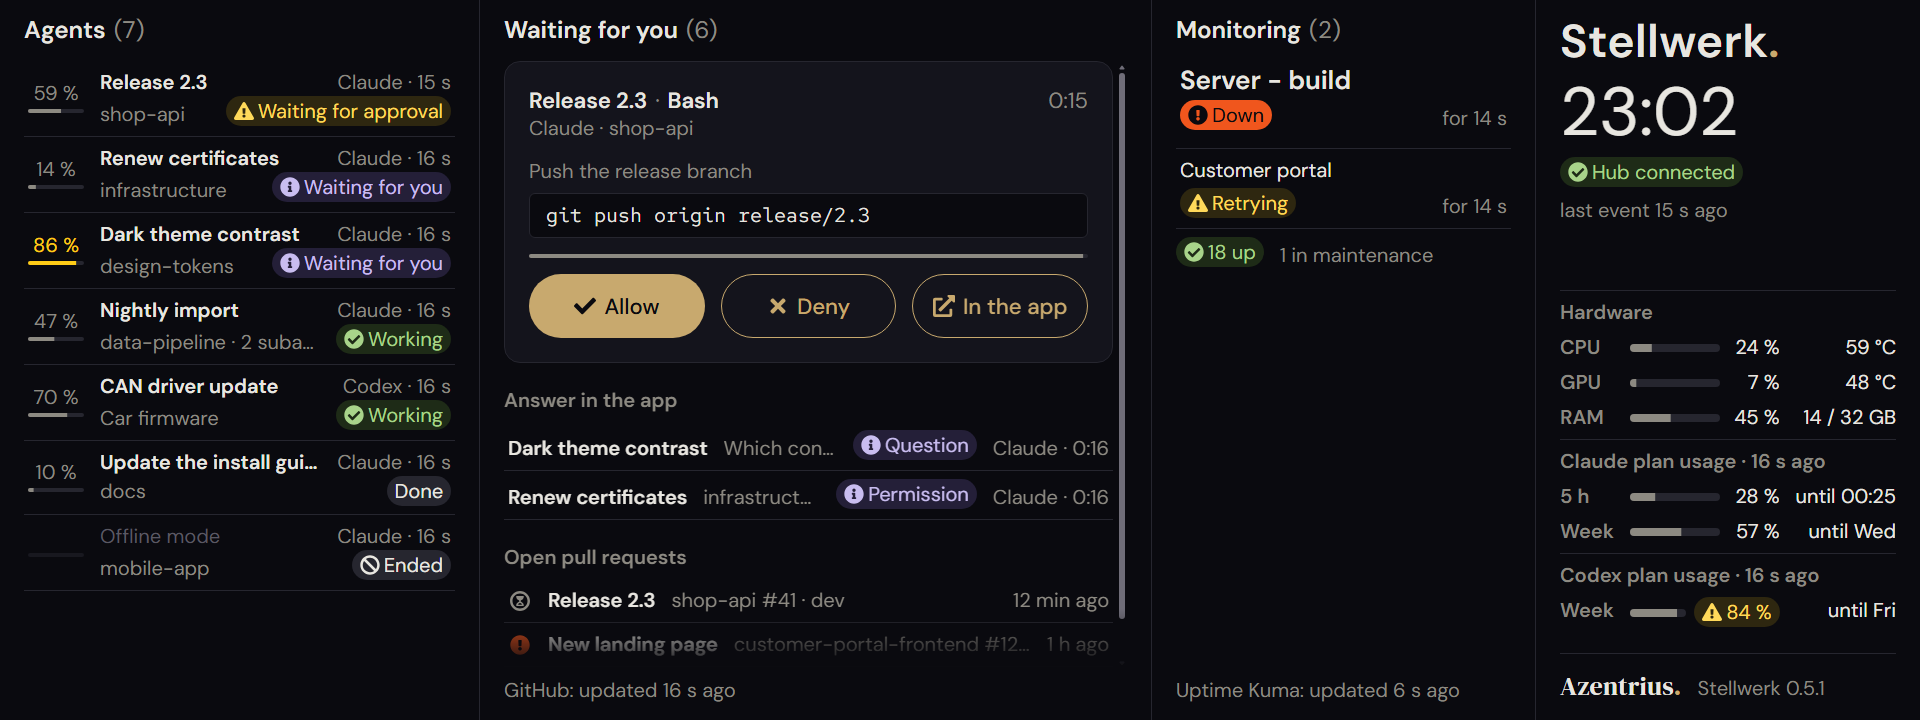
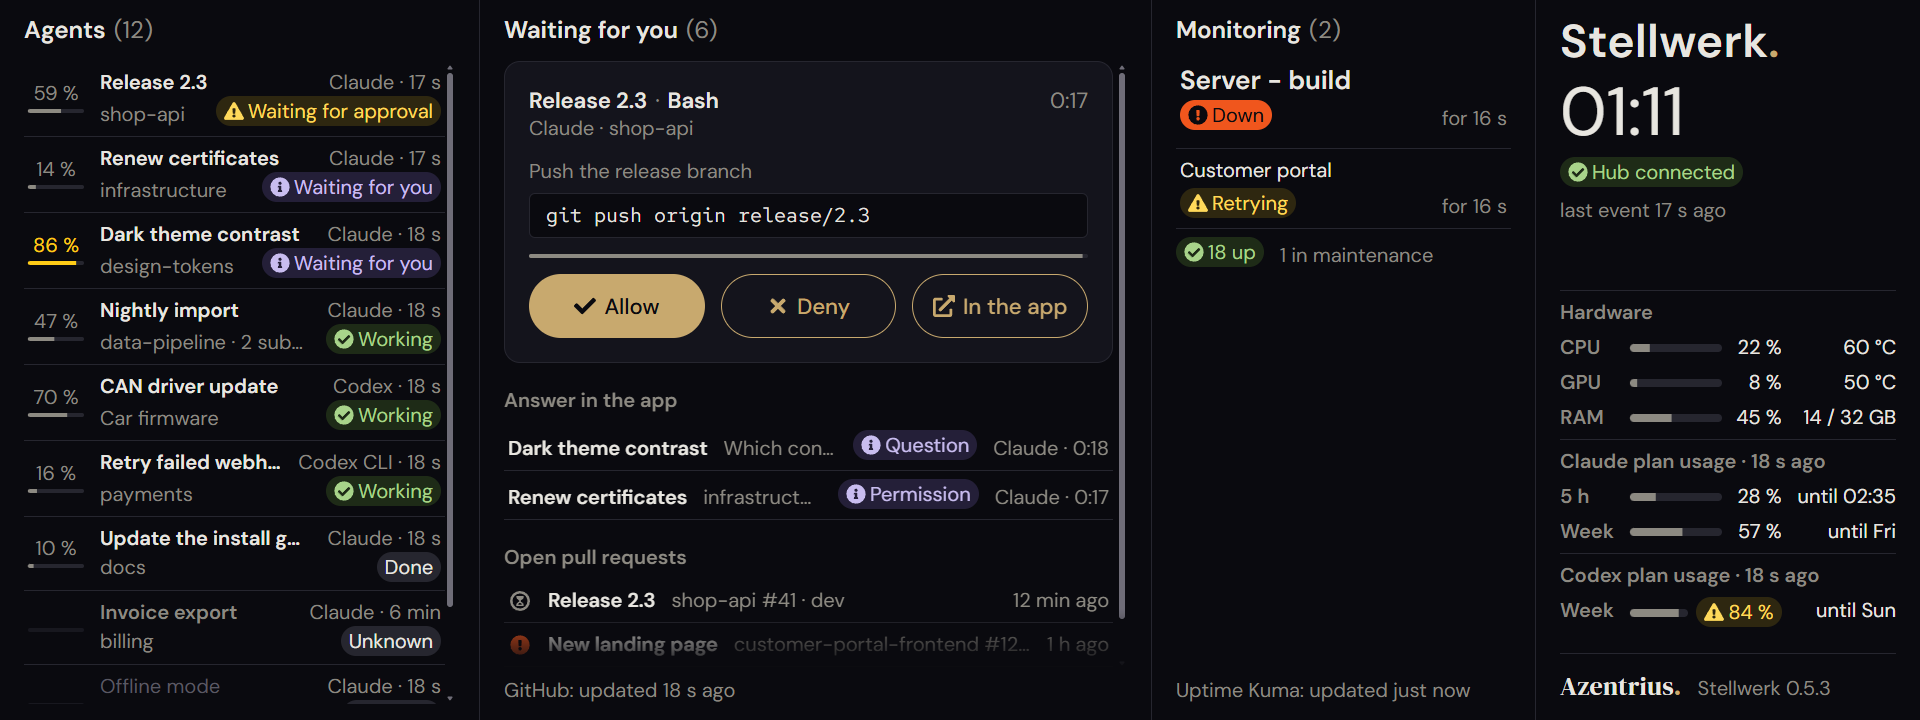
Add stellwerk raw-log delete and show the new things in the demo (#45)
Two small things before the release of 0.5.3.

## `stellwerk raw-log delete`

- **The command:** after a probe with the raw hook log on, the display
asks you to delete `debug-raw.jsonl`, which holds prompts and code, and
you had to find the file yourself. `stellwerk raw-log delete` now
deletes it. When `debugRawLog` is still true in `config.json`, it also
says that the hub would write the log again.
- **Asked for, never on its own:** it deletes only when you run it.
- **Texts:** the display's hint while the raw log is on names the
command, in both languages. The usage and the README's configuration
table name it too.
- **Code:** `deleteRawLog` in `src/config.ts`, tested in
`test/config.test.ts`.

## The demo and the README screenshot

- **The demo:** `npm run demo` now shows what came with 0.5.3:
- it restores sessions of a "last run": one unknown since a few minutes,
and three at rest behind their line;
- it runs a session of Codex' command line, whose transcript names it so
("Codex CLI").
- **The screenshot:** `docs/display.png` is taken again from the demo,
in English at 1920×720. It shows "Codex CLI" and a grey "Unknown"
session. The line "3 more at rest" is below the agents column's fold.

## Tested

- typecheck, build, 307 tests, the four checks in a real Edge, `npm run
package`, `npm audit` (0).

diff --git a/tools/demo.ts b/tools/demo.ts
@@ -125,7 +125,39 @@ fs.writeFileSync(
 // Codex names its threads in its session index, and the Codex app files them under its projects; the
 // demo's Codex session has both.
 const codexIndex = path.join(demoDir, 'codex', 'session_index.jsonl');
-fs.writeFileSync(codexIndex, `${JSON.stringify({ id: 'firmware', thread_name: 'CAN driver update', updated_at: new Date().toISOString() })}\n`);
+fs.writeFileSync(
+  codexIndex,
+  `${JSON.stringify({ id: 'firmware', thread_name: 'CAN driver update', updated_at: new Date().toISOString() })}\n` +
+    `${JSON.stringify({ id: 'webhooks', thread_name: 'Retry failed webhooks', updated_at: new Date().toISOString() })}\n`,
+);
+// A session of Codex' command line: its transcript's first line names it so ("Codex CLI" on the display).
+const codexCliRollout = path.join(codexSessions, '2026', 'rollout-cli.jsonl');
+fs.writeFileSync(
+  codexCliRollout,
+  `${JSON.stringify({ timestamp: new Date().toISOString(), type: 'session_meta', payload: { id: 'webhooks', originator: 'codex-tui' } })}\n` +
+    `${JSON.stringify({ type: 'turn_context', payload: { approval_policy: 'on-request', approvals_reviewer: 'user' } })}\n` +
+    `${JSON.stringify({ type: 'event_msg', payload: { type: 'token_count', info: { last_token_usage: { total_tokens: 41_000 }, model_context_window: 258_400 } } })}\n`,
+);
+// Sessions of the last run: one unknown since a short while, three at rest behind their line.
+const sessionsFile = path.join(demoDir, 'sessions.json');
+const lastRun = (id: string, title: string, project: string, minutesAgo: number) => ({
+  id,
+  provider: 'claude',
+  cwd: `C:\\Projects\\${project}`,
+  title,
+  project: null,
+  context: null,
+  lastActivity: Date.now() - minutesAgo * 60_000,
+});
+fs.writeFileSync(
+  sessionsFile,
+  JSON.stringify([
+    lastRun('billing', 'Invoice export', 'billing', 6),
+    lastRun('spike', 'Search spike', 'search', 120),
+    lastRun('onboarding', 'Onboarding docs', 'docs', 180),
+    lastRun('cleanup', 'Remove old flags', 'shop-api', 240),
+  ]),
+);
 const codexStateFile = path.join(demoDir, 'codex', '.codex-global-state.json');
 fs.writeFileSync(
   codexStateFile,
@@ -150,15 +182,16 @@ const hub = await startHub({
   uptimeKuma: { url: 'http://192.0.2.10:3001', key: `uk1_${'demo'.repeat(10)}`, intervalMs: 2000, fetch: demoKumaFetch },
   context: { root: transcripts, codexRoot: codexSessions, codexIndex, intervalMs: 300 },
   codexStateFile,
+  sessionsFile,
   // Made-up data with a token of its own: the demo's display needs no sign-in.
   openDisplay: true,
 });
 console.log(`Demo hub on http://127.0.0.1:${hub.port}/  (add ?lang=en or ?lang=de)`);
 if (hub.missingBuild) console.log('The display is not built yet. Run "npm run build" first.');
 
-function send(session: string, project: string, body: Record<string, unknown>, codex = false): void {
+function send(session: string, project: string, body: Record<string, unknown>, codex = false, rollout = codexRollout): void {
   const transcript = codex
-    ? { transcript_path: codexRollout }
+    ? { transcript_path: rollout }
     : session in CONTEXT_TOKENS
       ? { transcript_path: path.join(transcripts, 'demo', `${session}.jsonl`) }
       : {};
@@ -184,6 +217,7 @@ send('pipeline', 'data-pipeline', { hook_event_name: 'UserPromptSubmit', session
 send('pipeline', 'data-pipeline', { hook_event_name: 'SubagentStart', agent_id: 'a1', agent_type: 'Explore' });
 send('pipeline', 'data-pipeline', { hook_event_name: 'SubagentStart', agent_id: 'a2', agent_type: 'Plan' });
 send('firmware', 'car-firmware', { hook_event_name: 'UserPromptSubmit', model: 'gpt-6-astra', prompt: 'Update the CAN driver' }, true);
+send('webhooks', 'payments', { hook_event_name: 'UserPromptSubmit', model: 'gpt-6-astra', prompt: 'Retry failed webhooks' }, true, codexCliRollout);
 // A session asks the desktop app how much of the plan is used; the hook carries the answer.
 const inHours = (h: number) => new Date(Date.now() + h * 3_600_000).toISOString();
 send('pipeline', 'data-pipeline', {

diff --git a/src/cli.ts b/src/cli.ts
@@ -10,7 +10,7 @@ import path from 'node:path';
 import readline from 'node:readline/promises';
 import { pathToFileURL } from 'node:url';
 import { format, parseArgs } from 'node:util';
-import { GITHUB_OWNER, HOST, defaultPaths, loadConfig, readJsonFile, setConfigValue, uptimeKumaAddress } from './config.ts';
+import { GITHUB_OWNER, HOST, defaultPaths, deleteRawLog, loadConfig, readJsonFile, setConfigValue, uptimeKumaAddress } from './config.ts';
 import { GitHubWatcher, describeProblem } from './hub/github.ts';
 import { UptimeKumaWatcher, describeUptimeKumaProblem } from './hub/kuma.ts';
 import {
@@ -138,6 +138,8 @@ Usage:
       Then restart the Codex app and allow the hooks there.
   stellwerk codex uninstall [--yes]
       Remove exactly these hooks.
+  stellwerk raw-log delete
+      Delete the raw hook log (debug-raw.jsonl), which holds prompts and code.
 
 Configuration: %APPDATA%\\stellwerk\\config.json (port, holdSeconds, sound, scale, debugRawLog).
 `;
@@ -177,6 +179,7 @@ async function main(): Promise<void> {
   if (command === 'kuma' && (action === 'key' || action === 'remove')) return uptimeKumaKey(action, values.url);
   if (command === 'hardware' && (action === 'install' || action === 'uninstall')) return hardware(action, values.yes);
   if (command === 'codex' && (action === 'install' || action === 'uninstall')) return codex(action, values.yes);
+  if (command === 'raw-log' && action === 'delete') return rawLogDelete();
   console.error(USAGE);
   process.exitCode = 2;
 }
@@ -651,3 +654,12 @@ main().catch((err: Error) => {
   console.error(err.message);
   process.exitCode = 1;
 });
+
+/** Deletes the raw hook log; says when the configuration would have the hub write it again. */
+function rawLogDelete(): void {
+  const paths = defaultPaths();
+  console.log(deleteRawLog(paths.rawLogFile) ? `Deleted ${paths.rawLogFile}.` : 'There is no raw hook log.');
+  if (loadConfig(paths.configFile).debugRawLog) {
+    console.log('debugRawLog is still true in config.json: set it to false and restart the hub, or it writes the log again.');
+  }
+}

diff --git a/ui/src/i18n.ts b/ui/src/i18n.ts
@@ -230,7 +230,7 @@ const en: Texts = {
   },
   rawLog: {
     title: 'Raw hook log is on',
-    fix: 'It holds prompts and code. Set `debugRawLog` to false in `config.json` (or start without `--debug-raw`), restart the hub and delete `debug-raw.jsonl`.',
+    fix: 'It holds prompts and code. Set `debugRawLog` to false in `config.json` (or start without `--debug-raw`), restart the hub and run `stellwerk raw-log delete`.',
   },
   notSignedIn: 'Display not signed in',
   notSignedInFix: 'Open it with its start file, `display.html` in `%LOCALAPPDATA%\\stellwerk`, or start the task "Stellwerk display" again.',
@@ -374,7 +374,7 @@ const de: Texts = {
   },
   rawLog: {
     title: 'Rohprotokoll ist an',
-    fix: 'Es enthält Prompts und Code. Setze `debugRawLog` in `config.json` auf false (oder starte ohne `--debug-raw`), starte den Hub neu und lösche `debug-raw.jsonl`.',
+    fix: 'Es enthält Prompts und Code. Setze `debugRawLog` in `config.json` auf false (oder starte ohne `--debug-raw`), starte den Hub neu und führe `stellwerk raw-log delete` aus.',
   },
   notSignedIn: 'Anzeige nicht angemeldet',
   notSignedInFix: 'Öffne sie über ihre Startdatei, `display.html` in `%LOCALAPPDATA%\\stellwerk`, oder starte die Aufgabe „Stellwerk display“ neu.',

diff --git a/test/config.test.ts b/test/config.test.ts
@@ -7,7 +7,7 @@ import fs from 'node:fs';
 import os from 'node:os';
 import path from 'node:path';
 import { test } from 'node:test';
-import { defaultPaths, loadConfig, setConfigValue } from '../src/config.ts';
+import { defaultPaths, deleteRawLog, loadConfig, setConfigValue } from '../src/config.ts';
 import {
   ensureToken,
   isGitHubToken,
@@ -210,4 +210,12 @@ test('a damaged token file is reported', () => {
   const file = path.join(tempDir(), 'token');
   fs.writeFileSync(file, 'not-a-token');
   assert.throws(() => readToken(file), /valid token/);
+});
+
+test('the raw hook log is deleted on request; without one there is nothing to delete', () => {
+  const file = path.join(tempDir(), 'debug-raw.jsonl');
+  fs.writeFileSync(file, '{"prompt":"secret"}\n');
+  assert.equal(deleteRawLog(file), true);
+  assert.equal(fs.existsSync(file), false);
+  assert.equal(deleteRawLog(file), false);
 });

diff --git a/src/config.ts b/src/config.ts
@@ -164,3 +164,10 @@ export function loadConfig(file: string): Config {
   }
   return parsed.data;
 }
+
+/** Deletes the raw hook log (it holds prompts and code); false when there is none. */
+export function deleteRawLog(file: string): boolean {
+  if (!fs.existsSync(file)) return false;
+  fs.rmSync(file);
+  return true;
+}

diff --git a/README.md b/README.md
@@ -369,7 +369,7 @@ session appears with its first event, which in the desktop app is the first prom
 | `sound` | A soft chime for each new request. |
 | `quietAfterMinutes` | The display rests, dimmed with the clock still readable, after this many minutes with nothing new and no open request: 0 (never) to 1440, 10 by default. A new request, a new answer due in the app, a monitor going down, a new pull request or failed checks wake it, and so does a tap, which presses nothing else. |
 | `scale` | Scales every size of the display (0.5 to 3). At 1, no text is smaller than 20 px and no button lower than 64 px. |
-| `debugRawLog` | Writes every hook request as received to `debug-raw.jsonl`, like `stellwerk serve --debug-raw`. It holds prompts and code. |
+| `debugRawLog` | Writes every hook request as received to `debug-raw.jsonl`, like `stellwerk serve --debug-raw`. It holds prompts and code; `stellwerk raw-log delete` deletes it. |
 | `githubOwner` | Whose open pull requests to list; set by `stellwerk github token --owner`. Needs the GitHub token. |
 | `githubIntervalSeconds` | How often to ask GitHub: 60 to 3600, 120 by default. |
 | `hardwareMonitor` | Show the hardware values; set by `stellwerk hardware install` and `uninstall`. |

diff --git a/CHANGELOG.md b/CHANGELOG.md
@@ -48,6 +48,9 @@ too.
   scrolling, as in the monitor list. A new check in a real Edge (`tools/check-columns.ts`) scrolls the
   agents and the waiting column to their last entries by mouse wheel, finger and keyboard, and allows a
   request far down by a tap and by Enter.
+- **`stellwerk raw-log delete`:** deletes the raw hook log (`debug-raw.jsonl`), which holds prompts and
+  code; the display's hint while the raw log is on names it. The demo shows what is new (a session at rest
+  behind its line, one unknown, one of Codex' command line), and so does the README's screenshot.
 - **Release checks:** the release workflow now runs the checks in a real Edge as well (display sign-in,
   failing monitors, agents and waiting column, the display at rest), as the test workflow does.
 
